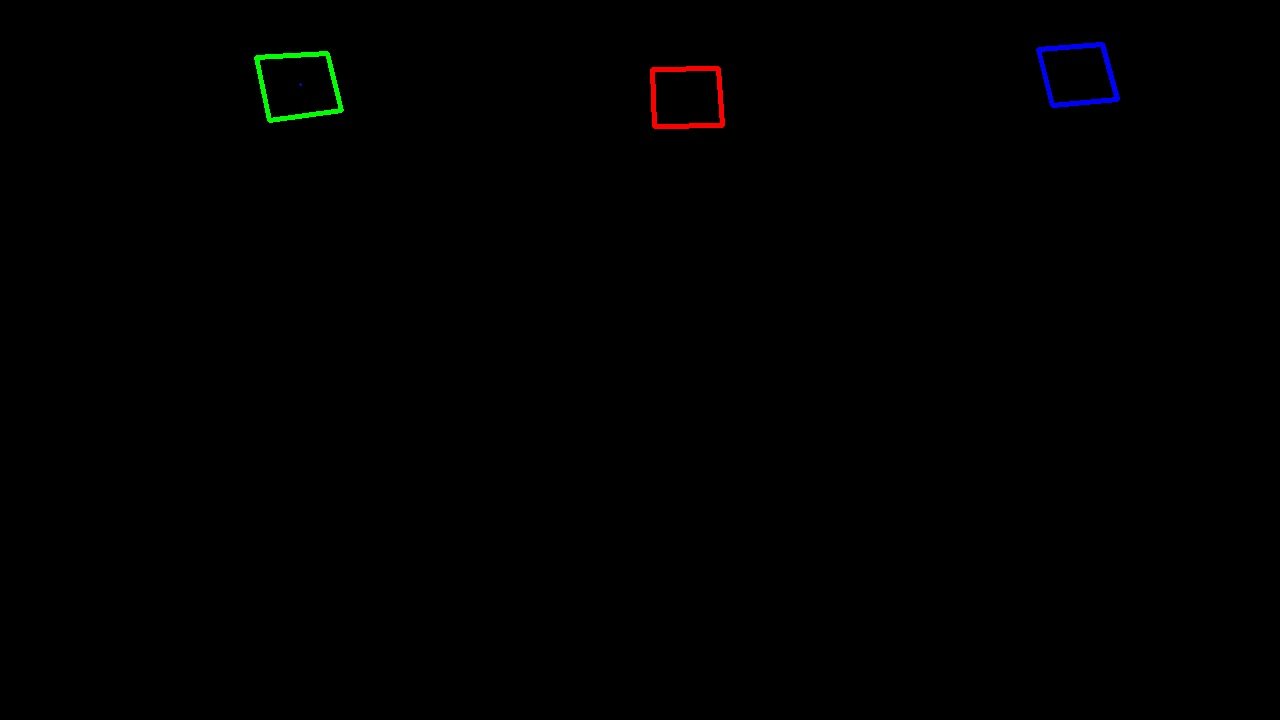
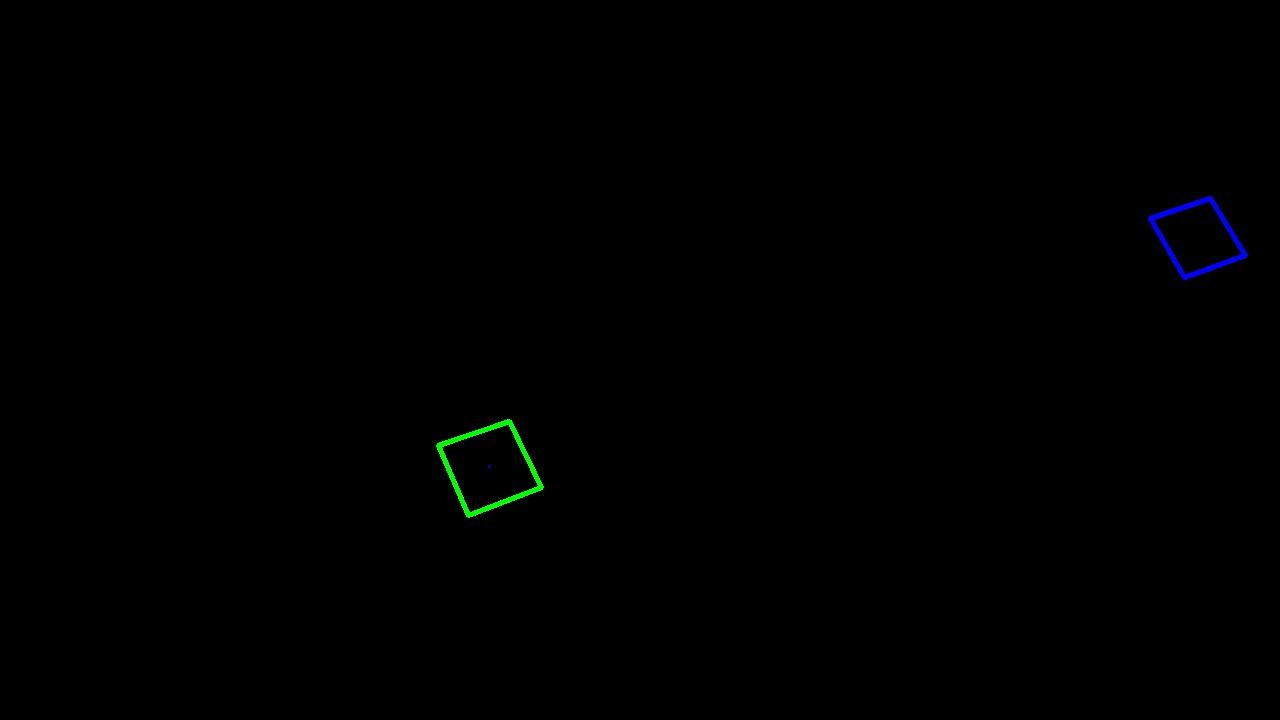
speed control via the camera

diff --git a/live_april.py b/live_april.py
@@ -30,15 +30,15 @@ target_tag_id = A_tag_id
 destination_tag_id = 4
 car_corners = ()
 
-car_speed = 70
+car_speed = 55
 
 
-pid = line_follow.pid_controller(6.6, 4.4, 8.8, 0.1, 0, 0)
+pid = line_follow.pid_controller(6.6, 4.4, 8.8, 0.2, 0, 0)
 
 fx, fy, cx, cy = (216.46208287856132, 199.68569189689305, 840.6661141370689, 518.01214031649) #found from calibrate_camera.py
 camera_params = (fx, fy, cx, cy)
 
-read_from_image = True # read from image, TRUE; read from live camera, FALSE
+read_from_image = False # read from image, TRUE; read from live camera, FALSE
 
 jpg_fn = "calibration_2.jpg"
 
@@ -268,6 +268,12 @@ print()
 send_to_pi.send_to_pi(ser,(str)("start"))
 send_to_pi.send_to_pi(ser,(str)(car_speed))
 
+target_center = []
+car_center = [0,0]
+car_speed_vector = [0,0]
+old_car_center = [0,0]
+car_speed_error = 0
+
 while True:
     # Capture image from camera
 
@@ -284,11 +290,6 @@ while True:
     	
     blank = np.zeros((frame.shape[0] , frame.shape[1],3), np.uint8)
 
-    
-    target_center = []
-    car_center = []
-    car_speed = []
-
 
 
     # Draw bounding boxes around detected tags and calculate distance
@@ -304,8 +305,36 @@ while True:
         if tag_id == car_tag_id:
             color = (0, 255, 0)  #blue
             label = "Car"
-            car_speed = car_center - tag.center.astype(int)
+            
+            # here we set up a very easy and simple speed control
+            setpoint = 100
+            start_speed = 55
+            kp = 0.1
+
             car_center = tag.center.astype(int)
+            car_speed_vector = (old_car_center[0] - car_center[0],old_car_center[1] - car_center[1])
+            old_car_center = car_center
+
+            car_speed_scalar = np.sqrt(car_speed_vector[0]**2 + car_speed_vector[1]**2)
+            car_speed_error = car_speed_scalar - setpoint
+
+            if(car_speed_error > 0):
+                car_speed = start_speed + kp*car_speed_error;
+            else:
+                car_speed = start_speed - kp*car_speed_error;
+            
+            send_to_pi.send_to_pi(ser,(str)("start"))
+            send_to_pi.send_to_pi(ser,(str)(car_speed))
+
+            print("car speed: ", car_speed)
+            print("car error: ", car_speed_error)
+            print()
+            
+            
+
+            cv2.putText(frame, "{}".format(np.round(car_speed_scalar)), (corners[0][0], corners[0][1] - 20), cv2.FONT_HERSHEY_SIMPLEX, 0.8, (0, 255, 0), 2)
+            
+
         elif tag_id == A_tag_id:
             color = (0, 0, 255)  # Red
             label = "A"
@@ -370,9 +399,9 @@ while True:
     op = pid.calculate_output()
     pid.update_output(op)
     #send_to_pi.set_steering(pi,pid.output)
-    print()
-    print("PID measurement: ", pid.measurement)
-    print("PID output: ", pid.output)
+    #print()
+    #print("PID measurement: ", pid.measurement)
+    #print("PID output: ", pid.output)
 
 
     send_to_pi.send_to_pi(ser,(str)(pid.output))
